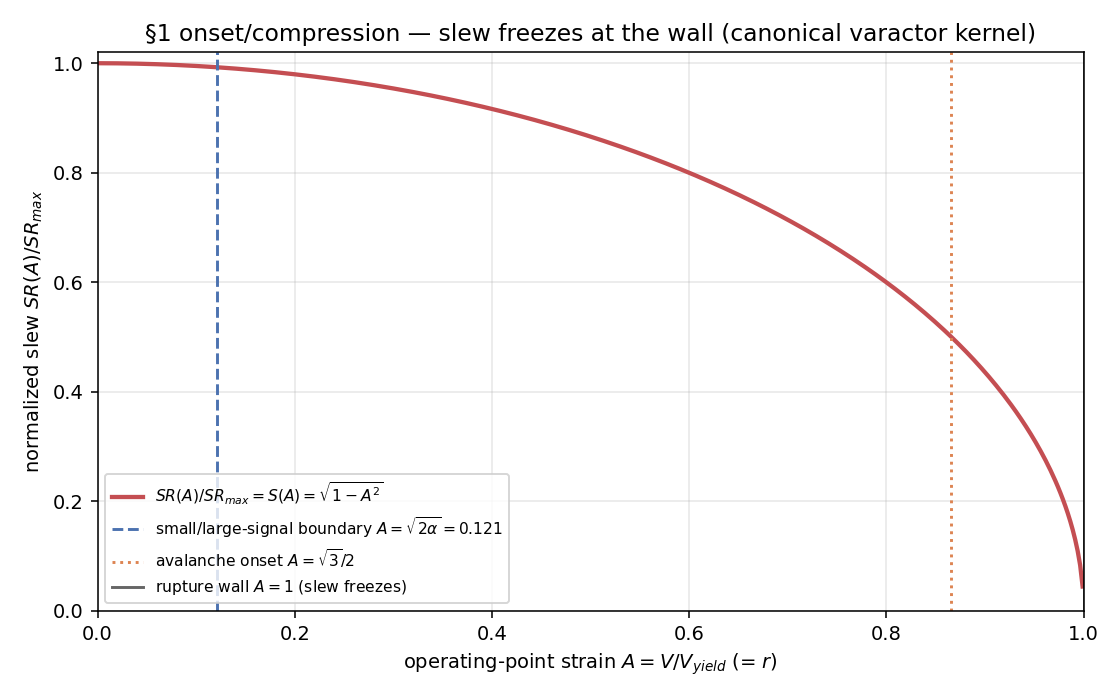
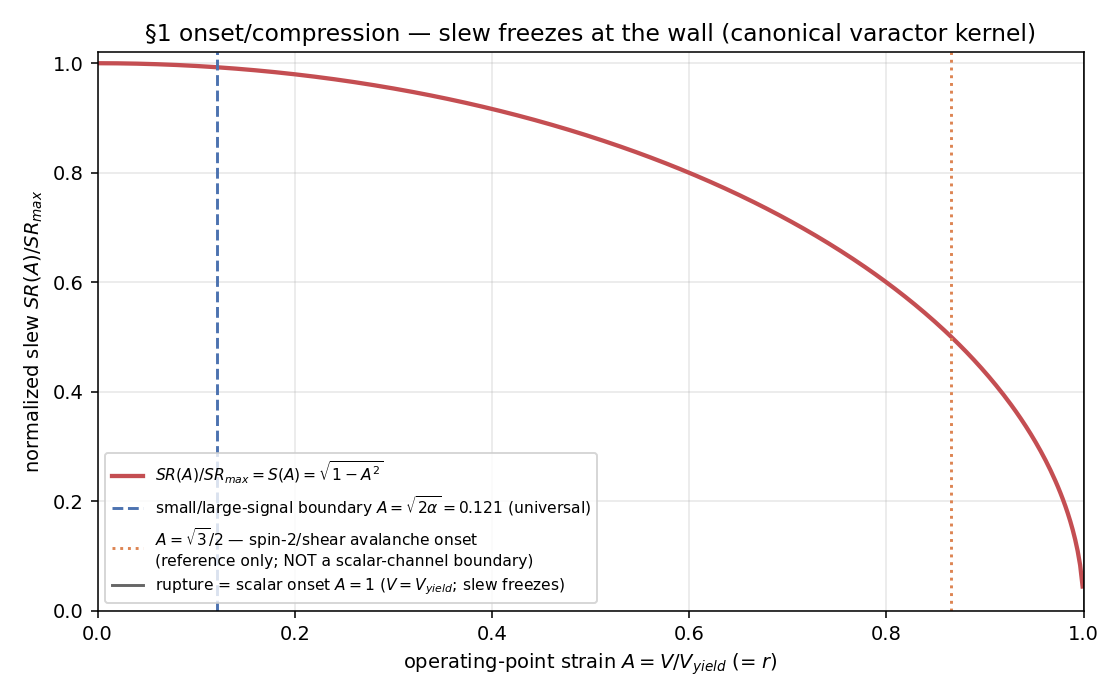
Dark-sector response: apply 3 Class-A audit findings (c_bulk floor / √3/2 sector / SYM echo)
Auditor lane returned 3 FAIL (Class-A) on analysis/2026-06-11-dark-sector-response;
all three applied via flag-don't-fix (relabel/tag, never silent-drop):

- Class-A #7 (consistency-vs-emergence): the c_bulk freeze FLOOR demoted from
  "canonical (rendered)" to floor-VALUE candidate/CONTESTED. Carries the
  field-symbol-registry §3.10 flag (cavitation_flow.py:62 "floor is CANDIDATE";
  v5 prereg:74 "cite as candidate, never canonical" vs substrate-temporal-values:61
  "Q2 resolved"). "verified 0.0000 exactly" reworded to "the defining root of
  c_bulk²=0 — an algebraic identity, not an independent check." (§3.1 + dilation script).

- Class-A #8 (phase-space-coordinate-check / registry Rule 3): √3/2 relabeled as the
  SPIN-2 / shear-sector avalanche onset (four-regimes.md:41,50) — a REFERENCE line only
  on the scalar slew figure, NOT a boundary of the scalar (bond-LC longitudinal-V,
  ℓ_min=0) curve, which per four-regimes.md:48 has NO avalanche sub-boundary; scalar
  onset = rupture at V_yield (A=1). Regime-II/III sector caveat added §1.2/§1.3
  (doc + fig1b + slew-script labels).

- Class-A #9 (consistency-vs-emergence): SYM "no echo (R=0)" qualified to first-order
  null + a non-zero SECOND-order granularity residual (discrete-lattice-entropy-
  constant.md:61,65, |Γ|²∼(ℓ_node/r_sat)²). The §4 BH-matrix echo hook + headline now
  carry the qualifier: the discriminator is the echo AMPLITUDE class (asymmetric
[…]

Changed region(s): [[0.0938, 0.63, 0.5312, 0.87], [0.375, 0.84, 0.4062, 0.87]]

diff --git a/src/scripts/vol_9_vacuum_datasheet/slew_spec_band_comparison.py b/src/scripts/vol_9_vacuum_datasheet/slew_spec_band_comparison.py
@@ -194,11 +194,17 @@ fig2, ax2 = plt.subplots(figsize=(8, 5))
 ax2.plot(A, SR_curve / SR_max, color="#c44e52", lw=2.2,
          label=r"$SR(A)/SR_{max}=S(A)=\sqrt{1-A^2}$")
 ax2.axvline(A_onset, color="#4c72b0", ls="--",
-            label=fr"small/large-signal boundary $A=\sqrt{{2\alpha}}={A_onset:.3f}$")
+            label=fr"small/large-signal boundary $A=\sqrt{{2\alpha}}={A_onset:.3f}$ (universal)")
+# NB: sqrt(3)/2 is the SPIN-2 / shear-sector avalanche-onset boundary
+# (four-regimes.md:41,50). The slew DRIVE here is bond-LC longitudinal-V =
+# SCALAR sector (ell_min=0), which has NO avalanche-onset boundary
+# (four-regimes.md:48); the scalar-channel onset is V_yield (A=1). Drawn as a
+# reference for the spin-2 sector only, NOT a boundary of THIS scalar curve.
 ax2.axvline(np.sqrt(3) / 2, color="#dd8452", ls=":",
-            label=r"avalanche onset $A=\sqrt{3}/2$")
+            label="$A=\\sqrt{3}/2$ — spin-2/shear avalanche onset\n"
+                  "(reference only; NOT a scalar-channel boundary)")
 ax2.axvline(1.0, color="black", ls="-", alpha=0.6,
-            label=r"rupture wall $A=1$ (slew freezes)")
+            label=r"rupture = scalar onset $A=1$ ($V=V_{yield}$; slew freezes)")
 ax2.set_xlabel(r"operating-point strain $A = V/V_{yield}$ (= $r$)")
 ax2.set_ylabel(r"normalized slew $SR(A)/SR_{max}$")
 ax2.set_title("§1 onset/compression — slew freezes at the wall (canonical varactor kernel)")

diff --git a/src/scripts/vol_9_vacuum_datasheet/dilation_derating_curves.py b/src/scripts/vol_9_vacuum_datasheet/dilation_derating_curves.py
@@ -72,7 +72,11 @@ for a2 in (0.0, 0.117, 0.5, 0.9, 0.99):
     print(f"  A^2={a2:5.3f} | c_EM={(1-a2)**-0.5:7.3f}  c_shear={(1-a2)**0.25:6.4f}")
 print(f"  c_bulk(rho=0)      = {np.sqrt(1+0/(1-0)):.4f}")
 print(f"  c_bulk(rho=+0.5)   = {np.sqrt(1+0.5/(1-0.25)):.4f}  (stiffens)")
-print(f"  c_bulk(rho_cav)    = {np.sqrt(max(0,1+RHO_CAV/(1-RHO_CAV**2))):.4f}  (FREEZES at floor)")
+# rho_cav=-1/phi is the DEFINING ROOT of c_bulk^2=0 (algebraic identity, not an
+# independent check); the floor-VALUE epistemic status is CONTESTED/CANDIDATE
+# (cavitation_flow.py:62; field-symbol-registry.md:139, sec 3.10).
+print(f"  c_bulk(rho_cav)    = {np.sqrt(max(0,1+RHO_CAV/(1-RHO_CAV**2))):.4f}  "
+      f"(=0 by construction at the CANDIDATE floor rho_cav=-1/phi)")
 
 csv1 = os.path.join(FIGDIR, "three_speed_split.csv")
 with open(csv1, "w", newline="") as fh:

diff --git a/research/2026-06-11_dark-sector-response-characterization.md b/research/2026-06-11_dark-sector-response-characterization.md
@@ -20,8 +20,11 @@
 > file:line grep-verified this session against `AVE-Core @ origin/main f6ffd98d`; the α-slew 2π
 > notational slip is surfaced §1.4, **not** silently reconciled); `consistency-vs-emergence` (each row
 > class-tagged); `substrate-native-check` (CP10 saturation rendered as a Γ boundary, not a bulk force);
-> `flag-don't-fix` (the ε-vs-C exponent tension §2.1 and the c_EM-rises imaging question §3.4 are
-> surfaced for Grant/BH-matrix, not resolved ad hoc); Rule 12.
+> `flag-don't-fix` (the ε-vs-C exponent tension §2.1, the c_EM-rises imaging question §3.3, the **c_bulk
+> floor-value candidate/CONTESTED** §3.1, the **√3/2 spin-2-vs-scalar sector scope** §1.2/§1.3, and the
+> **SYM first-order-null + second-order-residual** echo qualifier §2.3 are surfaced for Grant/auditor,
+> not resolved ad hoc); `phase-space-coordinate-check` (sector/channel discipline on the √3/2 boundary);
+> Rule 12.
 
 ## Class-tag legend (per row / per curve)
 
@@ -43,7 +46,7 @@
 | `V_SNAP` = m_e c²/e | 510.999 kV | :400 |
 | `V_YIELD` = √α·V_snap | 43.6519 kV | :409 |
 | `PHI` | 1.6180339887 | :199 |
-| `RHO_CAV` = −1/φ | −0.6180339887 | `cavitation_flow.py:64` (NOT constants.py — registry R8) |
+| `RHO_CAV` = −1/φ **(floor-value candidate/CONTESTED)** | −0.6180339887 | `cavitation_flow.py:64` (NOT constants.py — registry R8); floor-VALUE flagged CANDIDATE `cavitation_flow.py:62`, registry §3.10 |
 
 Derived (this doc, forward): `omega_node = c0/ell_node`, `nu_node = omega_node/2π`,
 `tau0 = ell_node/c0`, `SR_max = V_yield·omega_node`, `S(A)=√(1−A²)`.
@@ -82,9 +85,9 @@ the vacuum can slew a full 43.65 kV node-swing in ~1.3 zeptoseconds.
 |---|---|
 | Drive sector | bond-LC longitudinal-V (the channel `V_yield` lives in) |
 | Operating temperature | cold-lattice `A=0` (the `SR_max` quoted is the unstrained ceiling) |
-| Small-signal ↔ large-signal boundary | `A = √(2α) ≈ 0.1208` (regime I→II, `four-regimes.md:26,33`) |
-| Large-signal validity | regimes II–III, `√(2α) ≤ A < 1`; Axiom-4 kernel active |
-| Rupture (absolute-max) | `A = 1` (`V = V_yield`), S→0, topology destroyed (`four-regimes.md:56`) |
+| Small-signal ↔ large-signal boundary | `A = √(2α) ≈ 0.1208` (regime I→II, **universal**, `four-regimes.md:26,33`) |
+| Large-signal validity | `√(2α) ≤ A < 1`; Axiom-4 kernel active. **Sector caveat:** the four-regime II/III split at `√3/2` is the **spin-2** map (`four-regimes.md:52`); this slew channel is **scalar** (bond-LC longitudinal-V, ℓ_min=0) and has **no avalanche-onset sub-boundary** (`four-regimes.md:48`) — its only intrinsic large-signal boundary is rupture at `V_yield`. |
+| Rupture (absolute-max) = scalar onset | `A = 1` (`V = V_yield`), S→0, topology destroyed; the **scalar-channel** avalanche onset (`four-regimes.md:48,56`) |
 | Load | per-node bond impedance `Z_0 = 376.73 Ω` (the slew sources into the lattice line) |
 
 ### §1.3 — Onset / compression near the limit — class: derived-this-arc (from canonical kernel)
@@ -99,9 +102,16 @@ $$SR(A) = SR_{max}\cdot S(A), \qquad S(A)=\sqrt{1-A^2},\quad A=V/V_{yield}.$$
 
 The slew **freezes to zero at the rupture wall** `A→1` — the gear seizes. This is the same `S(A)→0`
 freeze that stops the local clock (`op14-cosmic-horizon-profile.md:22`), seen from the rate side.
-Curve in `fig1b_slew_compression.png` / `slew_compression_curve.csv`. The regime boundaries
-(`√(2α)`, `√3/2`, `1`) are the canonical four-regime phase-diagram tags (`four-regimes.md:26-29`,
-Vol-9 ch14).
+Curve in `fig1b_slew_compression.png` / `slew_compression_curve.csv`.
+
+> **🚩 sector-scope (phase-space-coordinate-check / registry Rule 3):** of the canonical four-regime
+> boundaries, only `√(2α)` (regime I→II, **universal** small-signal limit, `four-regimes.md:33`) and
+> `A=1` (rupture, the **scalar-channel** onset = `V_yield`, `four-regimes.md:48,56`) apply to this
+> **scalar** (bond-LC longitudinal-V) slew curve. The **`√3/2` boundary is spin-2/shear-sector-specific**
+> (`four-regimes.md:41,50`; the scalar sector ℓ_min=0 has **no** avalanche-onset boundary,
+> `four-regimes.md:48`). It is drawn on `fig1b` as a **spin-2 reference line only**, explicitly **not** a
+> boundary of the scalar slew curve. Mislabelling it "avalanche onset" on a scalar channel is the W5-adjacent
+> sector overload; relabeled, not silently dropped.
 
 > **Live-fire provenance (`ave-live-fire-derivation-provenance`):** `SR_max` is **forward** from
 > `{V_yield, ℓ_node, c0}` — no target in the loop (there is no observed "lattice slew rate" to fit to).
@@ -241,14 +251,22 @@ $$R(\Omega)=\int \tfrac12\frac{d\ln Z}{dx}\,e^{2i\int k\,dx'}\,dx,\qquad \Omega=
 
 | Class | graded-region max `|R|` | max bounded `R_pow=|R|²` | Echo? |
 |---|---|---|---|
-| **SYM** | **2.9×10⁻¹⁵** (machine zero) | ~0 | **NO** — `d ln Z/dx ≡ 0` |
+| **SYM** | **2.9×10⁻¹⁵** (first-order Born floor: `d ln Z/dx ≡ 0` → floating-point zero) | ~0 | **NO to first order** (2nd-order residual below) |
 | **μ-only** | 0.559 | 0.313 | **YES** |
 | **ε-only** | 0.559 | 0.313 | **YES** |
 
 Three results, all clean:
-1. **SYM → zero echo**, to machine precision — the canonical `discrete-lattice-entropy-constant.md:59`
+1. **SYM → zero echo to FIRST order** — the canonical `discrete-lattice-entropy-constant.md:59`
    result ("reflection set by the rate of change of Z; symmetric saturation → `dZ/dr=0` → no reflection
-   to first order"). **Echoes are a falsifiable signature of the *asymmetric* realization classes only.**
+   *to first order*"). The script's `2.9×10⁻¹⁵` is the **first-order Born floating-point floor**
+   (`d ln Z/dx` is identically 0 for SYM), **not** a converged true reflectivity.
+   **🚩 second-order residual (carried, not dropped):** `discrete-lattice-entropy-constant.md:61` states a
+   **non-zero second-order discrete reflection survives** when `n(r)` is non-linear across the bond
+   (`d²n/dr² ≠ 0`), of order `|Γ|² ∼ (ℓ_node/r_sat)²` (`:65`). So SYM echo is **suppressed, not strictly
+   absent** — the right claim is *first-order null + a small granularity-scale second-order residual*, not
+   "0%". **Echoes remain a falsifiable signature of the *asymmetric* classes (`R_pow~0.31`, orders of
+   magnitude above the SYM second-order residual); the discriminator is the echo *amplitude class*, not a
+   strict present/absent.**
 2. **μ-only and ε-only give the same `|R|` magnitude** — the impedance *step* has opposite sign
    (`Z→0` vs `Z→∞`) but the *log-gradient magnitude* `|½ d ln S/dx|` is identical, so the partial
    reflectivity is the same. The classes differ in sign, not echo strength.
@@ -270,15 +288,26 @@ reflector takes over (`R=1`, Op17-bounded) — rendered as a **boundary conditio
 A datasheet derates a part vs operating point. The substrate derates **three speeds** — and the
 **three-speed split IS the figure** (the load-bearing content is that they go three different ways).
 
-### §3.1 — The three sector speeds — class: canonical (rendered)
+### §3.1 — The three sector speeds — class: canonical forms (rendered); c_bulk **floor-value candidate/CONTESTED**
 
 | Channel | Speed | Behavior at A²→1 | Canonical anchor |
 |---|---|---|---|
 | **EM-transverse** | `c_EM = c0(1−A²)^{−1/2}` | **RISES → ∞** (Maxwell phase / α-speed) | `substrate-temporal-values:28`; registry §3.1 |
 | **shear (matter clock)** | `c_shear = c0(1−A²)^{+1/4}` | **FREEZES → 0** (group / rest-mass speed) | `substrate-temporal-values:29`; `operators.md:56` |
-| **bulk (compressional)** | `c_bulk = c0√(1+ρ̄/(1−ρ̄²))` | **FREEZES at ρ̄_cav=−1/φ**; stiffens at ρ̄→+1 | `substrate-temporal-values:30`; `cavitation_flow.py:64` |
+| **bulk (compressional)** | `c_bulk = c0√(1+ρ̄/(1−ρ̄²))` | **FREEZES at ρ̄_cav** (floor-VALUE **candidate/CONTESTED**); stiffens at ρ̄→+1 | form: `substrate-temporal-values:30`; floor: `cavitation_flow.py:64` (value), `:62` ("floor is CANDIDATE") |
 
-Verified: `c_bulk(ρ̄_cav) = 0.0000` exactly at `ρ̄_cav = −1/φ = −0.618034` (the cavitation freeze floor).
+`c_bulk(ρ̄_cav) = 0` at `ρ̄_cav = −1/φ = −0.618034` is the **defining root** of `c_bulk²=0` — an
+**algebraic identity** (ρ̄_cav is *by construction* the root), **not an independent check**.
+
+> **🚩 flag-don't-fix (c_bulk floor is CONTESTED, carried not resolved):** the c_bulk **form** is canonical
+> (`substrate-temporal-values:30`), but the floor **VALUE** `ρ̄_cav=−1/φ` is **CANDIDATE/CONTESTED**, not
+> canonical: `cavitation_flow.py:62` comment reads "floor is CANDIDATE" and `v5 prereg:74` says "cite as
+> candidate, never canonical", vs a "Q2 resolved" reading at `substrate-temporal-values:61`. The
+> field-symbol-registry this doc sits under flags exactly this (registry row `ρ̄_cav`, line 139 + §3.10:
+> "floor-VALUE epistemic status CONTESTED … surfaced not resolved"). I render the freeze curve but tag the
+> floor value **candidate**; I do **not** promote it to canonical. Routed to the auditor with the registry
+> flag, not collapsed here.
+
 Curves: `three_speed_split.csv` (c_EM, c_shear vs A²), `bulk_speed_vs_rho.csv` (c_bulk vs ρ̄). The bulk
 speed is plotted on its **own** axis (ρ̄, density) because it rides a distinct strain variable from the
 shear/EM amplitude A — whether `A` and `ρ̄` share a strain budget is the `temporal-values §5` residual
@@ -325,7 +354,7 @@ hole in AVE is a **melted / saturated lattice region** bounded by a Γ=−1 surf
 
 | Modifier (this doc) | BH-matrix row it feeds | What it changes | Realization-class / regime gate |
 |---|---|---|---|
-| **§2.3 reflectivity curve** `|R(Ω)|` | **echoes** | sets echo amplitude + spectrum: GW-echo power = the graded-region partial reflectivity off the near-wall impedance gradient; **low-Ω-weighted** | **gated on class**: SYM → **no echo** (R=0, machine-zero); μ-only / ε-only → echo (R_pow~0.31). The echo's *existence* discriminates the realization class. |
+| **§2.3 reflectivity curve** `|R(Ω)|` | **echoes** | sets echo amplitude + spectrum: GW-echo power = the graded-region partial reflectivity off the near-wall impedance gradient; **low-Ω-weighted** | **gated on class**: SYM → **first-order null** echo (`d ln Z/dx≡0`), with a small **second-order** granularity residual for non-linear `n(r)` (`|Γ|²∼(ℓ_node/r_sat)²`, `discrete-lattice-entropy-constant.md:61`); μ-only / ε-only → strong echo (`R_pow~0.31`). The discriminator is the echo **amplitude class** (asymmetric `R_pow~0.31` ≫ SYM second-order residual), **not** a strict present/absent. |
 | **§1 slew spec** `SR_max`, `ν_node` | **ringdown overtones** | sets the substrate's frequency ceiling for overtone support: `ν_node=1.24e20 Hz` ≥16 OOM above any QNM overtone → the lattice supports **arbitrarily high overtone n without slew-limiting**; overtone cutoff is set by the wall geometry, **not** the substrate rate | **CLEAN-NULL gate**: no observed overtone row can be a slew-rate artifact (§1.5). Any overtone damping is geometric/impedance, not rate. |
 | **§3.2 transfer functions** `H_shear, H_EM, H_bulk` | **every frequency row** (ringdown freq, QPO freq, line shifts) | each frequency row carries the **channel-specific** redshift of its source region: GW/line rows ride `H_shear=(1−A²)^{1/4}`; EM-phase rows ride `H_EM=(1−A²)^{−1/2}` | per-channel column: a frequency row must declare its channel (registry Rule 3) before the transfer function applies. |
 | **§3.1 three-speed split** + **§3.3 c_EM flag** | **shadow / lensing** | shadow size + photon-ring + lensing geometry depend on which speed light tracks near the wall; the **shear** clock gives GR-like shadow, but `c_EM` **rises** `(1−A²)^{−1/2}` → 🚩 **unresolved**: does imaging follow the matter clock or carry an EM-phase-speed correction? | **OPEN discriminator** routed here from §3.3 — the BH matrix must adjudicate; channels diverge by `(1−A²)^{3/4}`. |
@@ -368,11 +397,15 @@ classification past its canonical-source ceiling. The Schwarzschild-redshift rec
 **Class C consistency** (GR number via the matter-clock mechanism), explicitly tagged, not headlined as
 emergence.
 
-**Lane note.** Implementer-lane output: surfaces the curves + the three flagged tensions (the
-ε-vs-C exponent §2.1, the ¼-vs-½ profile exponent §2.2, the c_EM-imaging discriminator §3.3) and the
-α-slew 2π notational slip (§1.4). The **auditor** lands the Vol-9 ch5/ch7/ch14 sections + the registry
-cross-links and adjudicates the three tensions; **Grant** owns the c_EM-imaging discriminator (§3.3 / §4
-shadow-lensing row) and the α-slew coherence flag. Nothing here is canon.
+**Lane note.** Implementer-lane output: surfaces the curves + the flagged tensions — the
+ε-vs-C exponent §2.1, the ¼-vs-½ profile exponent §2.2, the c_EM-imaging discriminator §3.3, the
+**c_bulk floor-value candidate/CONTESTED** §3.1, the **√3/2 spin-2-vs-scalar sector scope** §1.2/§1.3,
+and the **SYM first-order-null + second-order-residual** echo qualifier §2.3 — plus the α-slew 2π
+notational slip (§1.4). The **auditor** lands the Vol-9 ch5/ch7/ch14 sections + the registry
+cross-links and adjudicates the tensions; **Grant** owns the c_EM-imaging discriminator (§3.3 / §4
+shadow-lensing row) and the α-slew coherence flag. Nothing here is canon. *(Three Class-A audit findings
+applied this revision: c_bulk floor → candidate; √3/2 → spin-2-sector reference only; SYM echo →
+first-order-null + second-order residual.)*
 
 ---
 
@@ -383,8 +416,8 @@ shadow-lensing row) and the α-slew coherence flag. Nothing here is canon.
 | constants | imported from `ave.core.constants`, cross-checked ≥6 sig figs | PASS (all 3 scripts) |
 | `SR_max` | forward, no target in loop; dead-input on band edges (±3 OOM invariant) | derived (not fit) |
 | α-slew value | `9.02e17 Hz = α·ν_node`; `(α/2π)·ν_Compton = 1.435e17` | **FLAG surfaced** §1.4 |
-| SYM echo | reflectivity machine-zero (asserted in script) | PASS (2.9e-15) |
-| c_bulk floor | `c_bulk(ρ̄_cav)=0` at `−1/φ` | PASS (exact) |
+| SYM echo | **first-order** Born floor `d ln Z/dx≡0` (2nd-order residual carried §2.3) | first-order null (2.9e-15); 2nd-order ∼(ℓ_node/r_sat)² survives |
+| c_bulk floor | `c_bulk(ρ̄_cav)=0` is the **defining root** (algebraic identity, not a check); floor-VALUE **candidate/CONTESTED** | identity holds; floor value flagged §3.1 |
 | Schwarzschild track | `c_shear(r)/c0 ≡ √(1−r_s/r)` | PASS (max|diff|=0) |
 | `make verify` | worktree + main checkout, per commit | GREEN ×4 |
 
